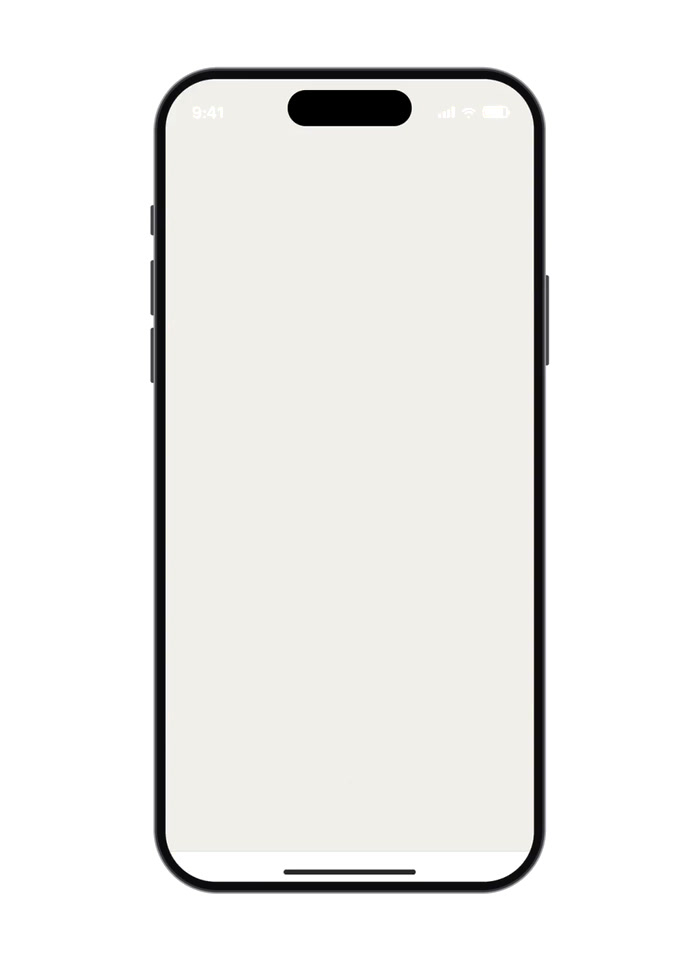
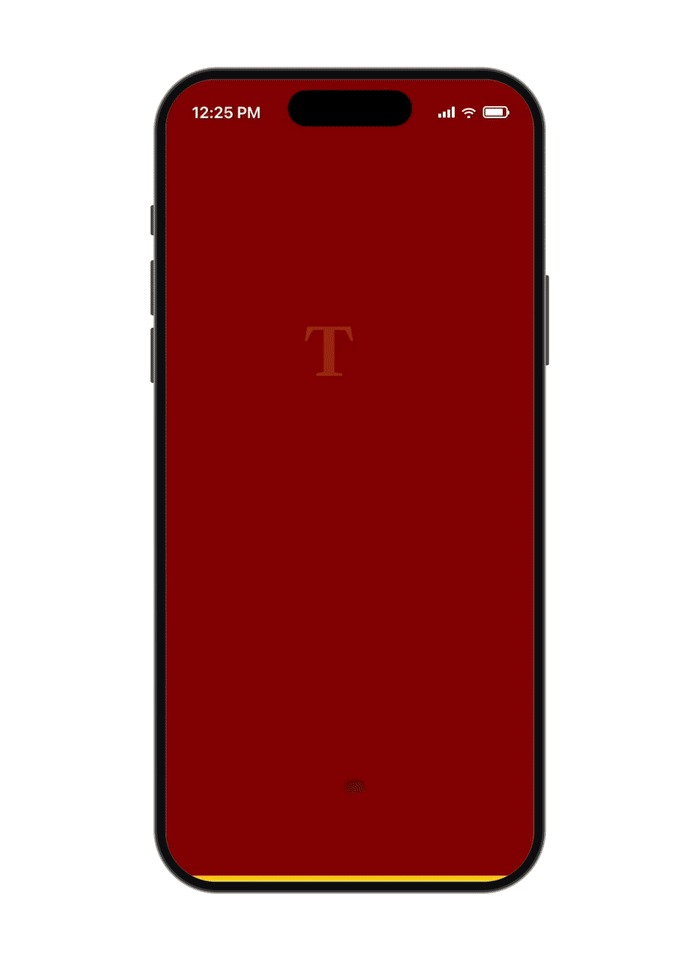
Remove grey opening frame from TroShare login demo

diff --git a/index.html b/index.html
@@ -393,7 +393,7 @@
 
             <section class="fold-feature">
               <figure class="fold-media staso-media troshare-phone">
-                <img class="scroll-gif" src="assets/troshare-login-poster.jpg?v=3" data-gif="assets/troshare-login.gif?v=3" alt="TroShare opening screen and login: continue with a USC Google account" />
+                <img class="scroll-gif" src="assets/troshare-login-poster.jpg?v=4" data-gif="assets/troshare-login.gif?v=4" alt="TroShare opening screen and login: continue with a USC Google account" />
               </figure>
               <div class="fold-copy">
                 <h3>Trojans to Trojans</h3>
